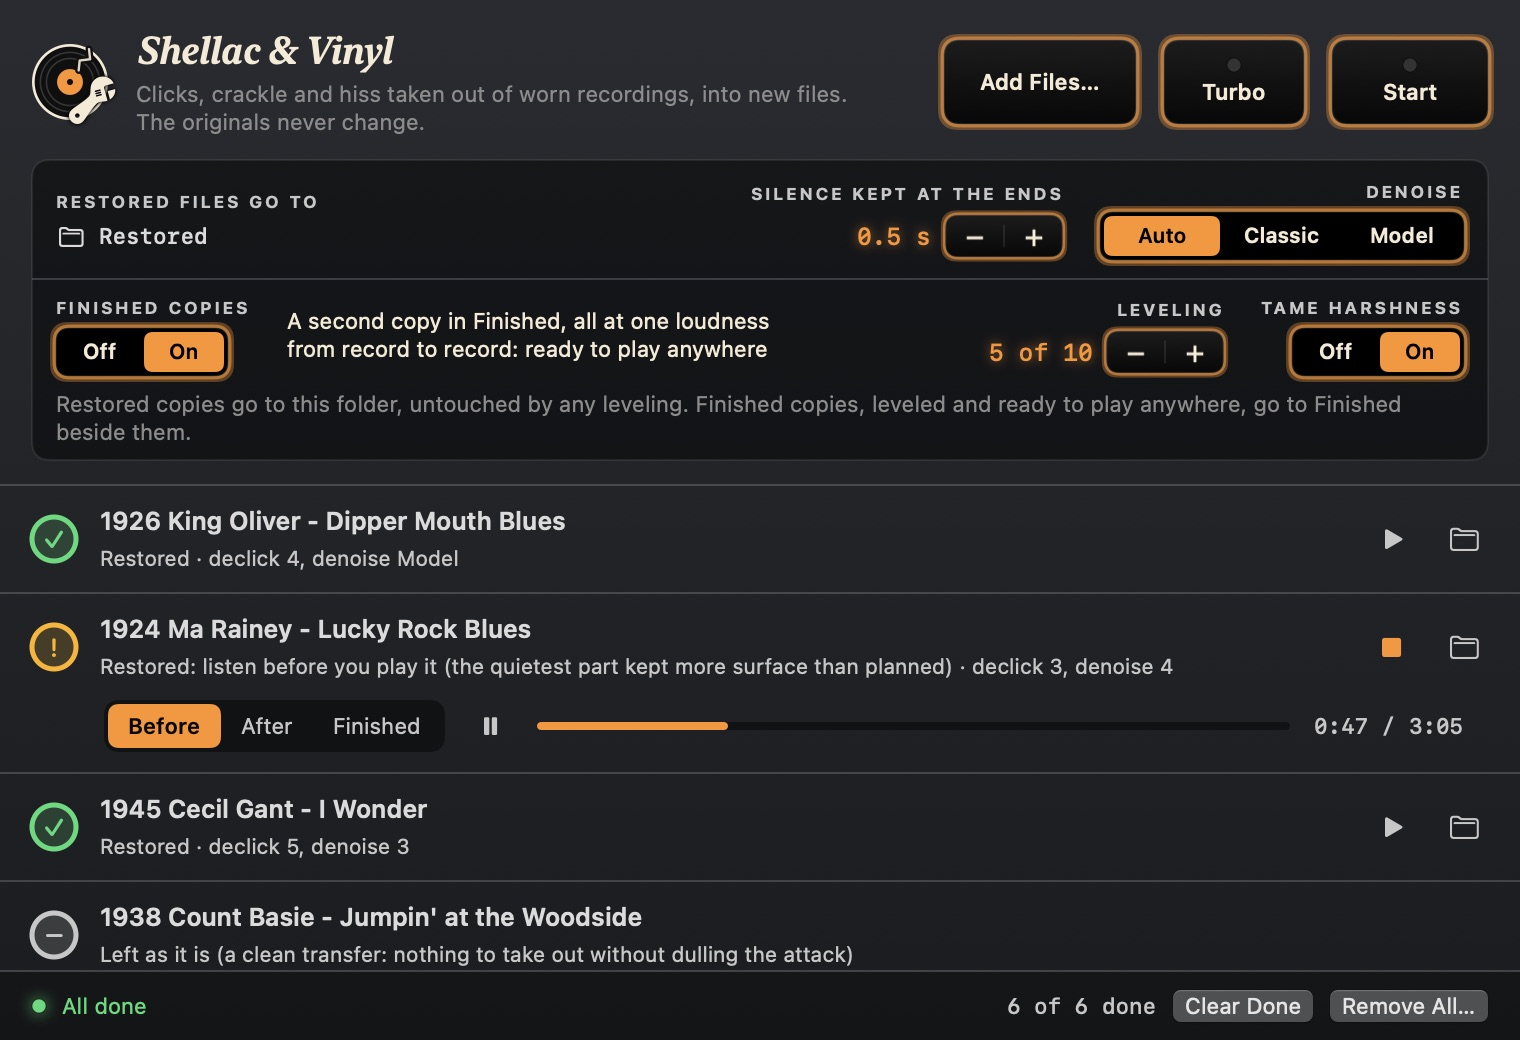
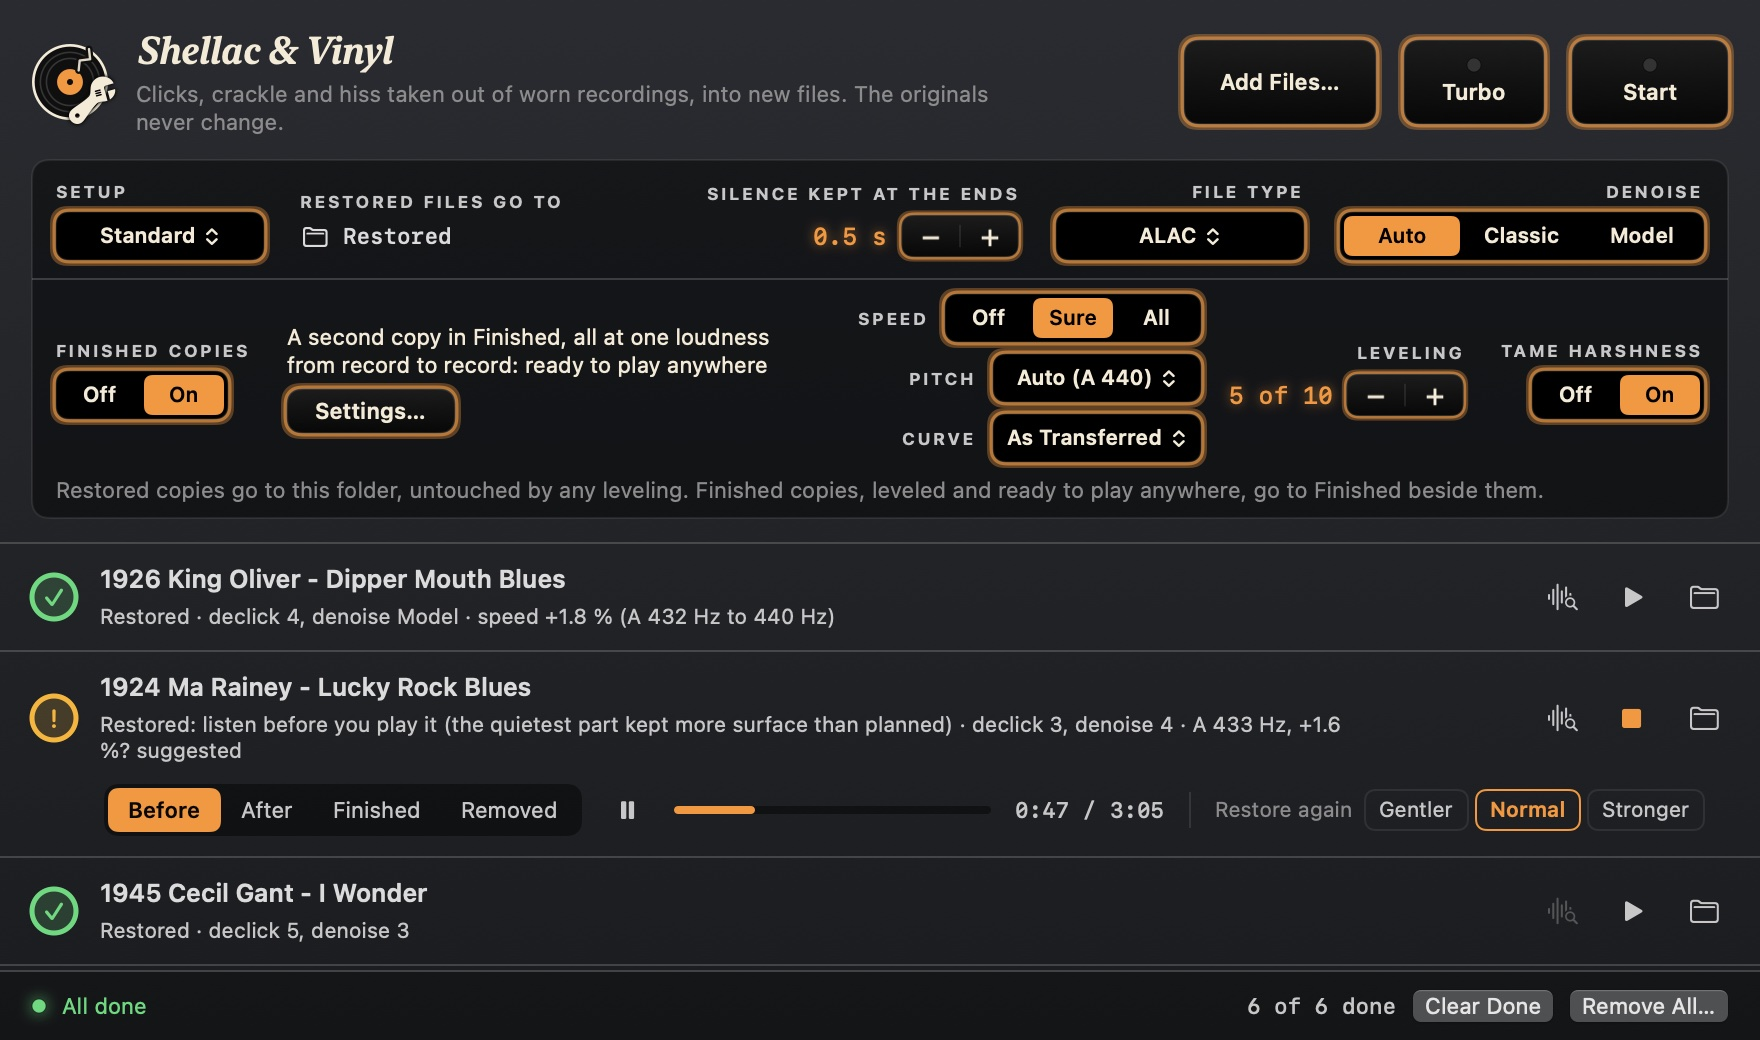
Shellac & Vinyl: the public pages (2026-11-21)

diff --git a/support.html b/support.html
@@ -410,14 +410,14 @@
     <div class="card"><h3>Choose the output folder</h3><p>Press the folder button at the top of the window and choose
       where the restored copies should go. Do this before you press Start.</p></div>
     <div class="card"><h3>Add your recordings</h3><p>Press <strong>Add Files…</strong> (⌘O on the Mac) and select files or whole
-      folders, or drop them on the window. A folder brings every recording inside it, subfolders included.</p></div>
+      folders, or drop them on the window. A folder brings every recording inside it, subfolders included. On the Mac you can also drop them on the app's icon in the Dock, or choose Open With in the Finder.</p></div>
     <div class="card"><h3>Press Start</h3><p>The recordings are restored one after the other. You can add more while
       it works. The line at the bottom says what is happening and about how long is left.</p></div>
   </div>
   <figure class="shot">
-    <img src="images/workshop-restore.jpg" width="760" height="520" alt="The Shellac & Vinyl window with the settings at the top and the list of recordings below">
+    <img src="images/workshop-restore.jpg" width="760" height="449" alt="The Shellac &amp; Vinyl window with the settings at the top and the list of recordings below">
     <figcaption>The settings are at the top (here with Finished copies turned on), the list of recordings below, and the
-      status line at the bottom.</figcaption>
+      status line at the bottom. Each row says what was done to that recording, such as a corrected speed.</figcaption>
   </figure>
   <div class="note" style="margin-top:32px">
     <p><strong>Where the copies are.</strong> Each restored recording is written into your output folder as
@@ -455,10 +455,21 @@
       restored copy, <strong>Finished</strong> is there when a finished copy was written, and <strong>Removed</strong> plays
       what was taken out (Before minus After): it should be clicks, crackle and hiss, not the music. Switching keeps the place,
       so you hear the same bar of music both ways, and Before plays at the copy's loudness, so the difference you hear is what was removed. A recording with an amber mark starts just before the part its reason is about; a green one where
-      the music starts. Click the line to hear another place. Space pauses, Esc stops, and the list continues restoring while you listen. If you hear music in Removed, or clicks and hiss left in After, press <strong>Restore again</strong> at the right of the bar for <strong>Gentler</strong> or <strong>Stronger</strong>: the recording goes back into the list and its new copy replaces the old one; the original never changes.</p>
+      the music starts. Click the line to hear another place. Space pauses, Esc stops, and the list continues restoring while you listen. If you hear music in Removed, or clicks and hiss left in After, press <strong>Restore again</strong> at the right of the bar for <strong>Gentler</strong> or <strong>Stronger</strong>: the recording goes back into the list and its new copy replaces the old one; the original never changes. Right-click the row, then <strong>Strength</strong>, for the same.</p>
   </div>
   <figure class="shot">
-    <img src="images/workshop-listen-restore.jpg" width="760" height="520" loading="lazy" alt="One recording playing, with Before, After, Finished and Removed under its row">
+    <img src="images/workshop-listen-restore.jpg" width="760" height="449" loading="lazy" alt="One recording playing, with Before, After, Finished and Removed under its row">
+  </figure>
+  <div class="card" style="margin-top:28px">
+    <h3>Seeing what was taken out</h3>
+    <p>The <strong>spectrum key</strong> on a restored row (the waveform with a magnifying glass, beside the play key)
+      shows the recording before and after. <strong>Spectrum</strong> draws the two over each other, so you see where the
+      hiss and the surface came down and that the music stayed where it was; the line under it gives the average change
+      in a few bands. <strong>Spectrogram</strong> shows the whole recording over time; click it to hear that place.
+      On the Mac for now.</p>
+  </div>
+  <figure class="shot">
+    <img src="images/workshop-spectrum-restore.jpg" width="760" height="460" loading="lazy" alt="The spectrum of one recording before and after: the music the same, the hiss above 4 kHz lower">
   </figure>
   <div class="grid g2" style="margin-top:28px">
     <div class="card"><h3>Removing recordings from the list</h3><p>Right-click a recording for <strong>Remove from the
@@ -485,6 +496,11 @@
       <tr><td>Silence kept at the ends</td><td>The silence or empty groove before and after the music is trimmed automatically.
         This sets how much each copy keeps: half a second unless you change it, from None to 5 seconds, or All for the recording's whole length. The music
         itself is never cut.</td></tr>
+      <tr><td>File type</td><td>The kind of file the copies are written as. <strong>ALAC</strong> (Apple Lossless, .m4a),
+        the default, and <strong>FLAC</strong> keep every detail and the original's tags; <strong>WAV</strong> and
+        <strong>AIFF</strong> do too, uncompressed; <strong>MP3</strong> is far smaller, for listening copies more than for
+        keeping. <strong>Sample rate</strong>, in the same menu, keeps each original's rate (As the Original) or writes
+        them all at one, from 44.1 to 192&nbsp;kHz. On Linux the copies are FLAC or MP3.</td></tr>
       <tr><td>Denoise</td><td>How the surface noise is reduced. <strong>Auto</strong> chooses the better of two ways
         for each recording, so you do not need to listen to decide. <strong>Classic</strong> or <strong>Model</strong>
         uses that one for every recording; right-click a recording to give it its own.</td></tr>
@@ -496,6 +512,12 @@
       <tr><td>Drift and wow</td><td>Where the speed drifts through a side, or swings once a turn because the disc's hole
         is off centre, a sure measurement is shown on the recording's row as a suggestion; right-click it,
         <strong>Drift and Wow</strong>, <strong>Correct</strong> to even it out, and it is restored again. On the Mac for now.</td></tr>
+      <tr><td>Speed</td><td>Many 78s were transferred at the wrong speed, so they sound a little too low and too slow, or
+        too high and too fast. Shellac &amp; Vinyl measures the pitch of the notes. <strong>Sure</strong>, the default,
+        writes the copy at the right speed where the notes agree clearly, and the row says so (speed +1.8&nbsp;%); where
+        they only partly agree, the row suggests it with a question mark and the speed is left alone. <strong>All</strong>
+        corrects every suggestion, <strong>Off</strong> none. Right-click a recording, <strong>Speed</strong>, to choose for
+        that one. On the Mac for now.</td></tr>
       <tr><td>Pitch</td><td>The pitch the speed brings the music to. <strong>Auto</strong>, the default, puts A at 440 Hz
         where the notes clearly lie outside the bands of the time. Choose 435, 440 or 452 for recordings you know follow
         it, and right-click a recording to give it its own. Where the speed puts the disc near 80 rpm, the recording's row

diff --git a/index.html b/index.html
@@ -487,7 +487,7 @@
     </div>
   </div>
   <figure class="shot">
-    <img src="images/workshop-listen-restore.jpg" width="760" height="520" loading="lazy" alt="The Shellac &amp; Vinyl window with one recording playing: under its row, Before, After and Finished, a pause key, a position line and the time">
+    <img src="images/workshop-listen-restore.jpg" width="760" height="449" loading="lazy" alt="The Shellac &amp; Vinyl window with one recording playing: under its row, Before, After and Finished, a pause key, a position line and the time">
     <figcaption>The whole app is one window: your list of recordings, each with its verdict, and the settings above
       it. Here a restored recording is playing, switched to Before.</figcaption>
   </figure>
